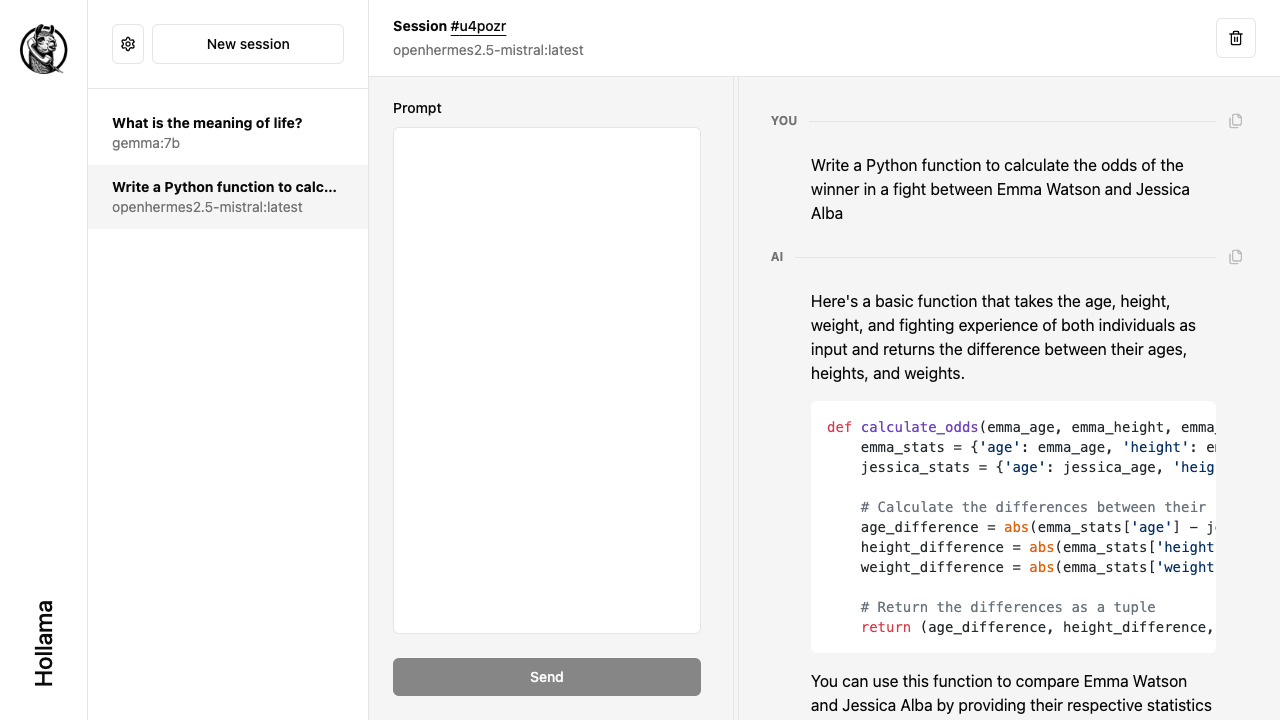
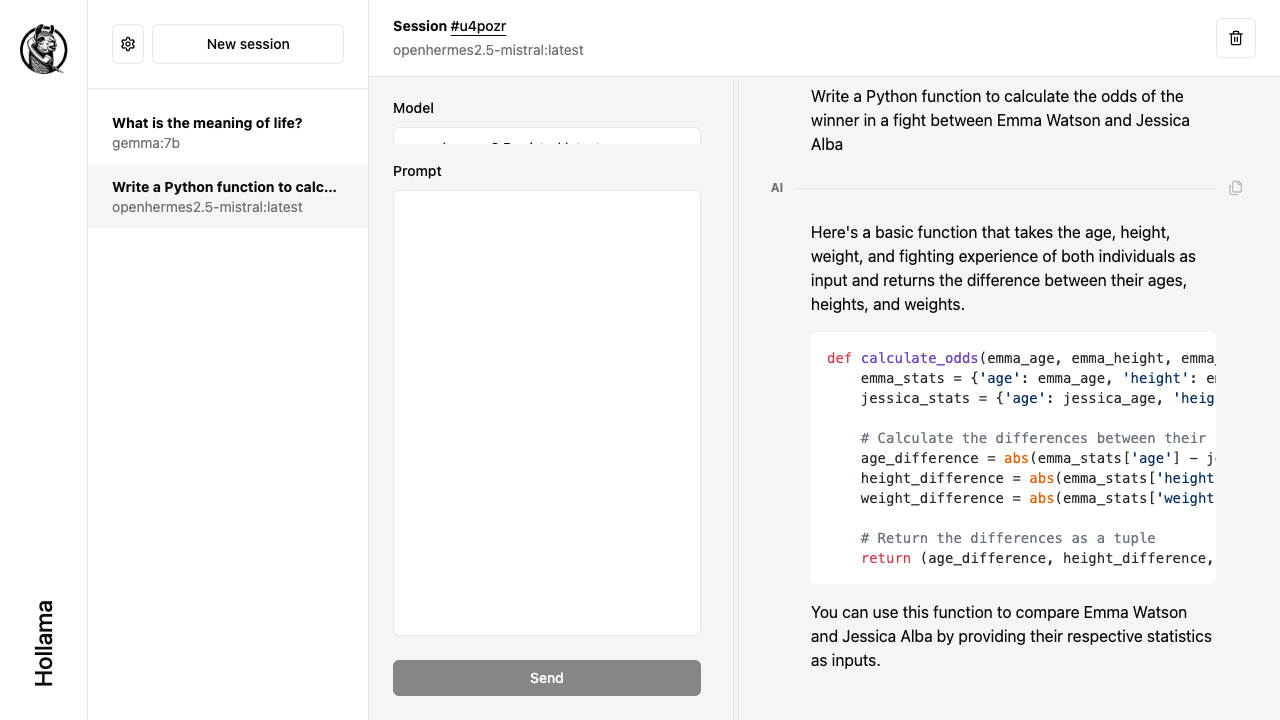
add another screenshot for "new session"

diff --git a/tests/docs.test.ts b/tests/docs.test.ts
@@ -9,6 +9,10 @@ test('seed data and take screenshots for README.md', async ({ page }) => {
 	await page.goto('/');
 	await page.getByLabel('Model').selectOption('openhermes2.5-mistral:latest');
 	await page.screenshot({ path: 'docs/settings.png', fullPage: true });
+	
+	await page.getByText('New session').click();
+	await expect(page.getByText('Write a prompt to start a new session')).toBeVisible();
+	await page.screenshot({ path: 'docs/session-new.png', fullPage: true });
 
 	// Stage 2 sessions
 	await page.evaluate(() => window.localStorage.setItem(

diff --git a/README.md b/README.md
@@ -3,6 +3,7 @@
 A minimal web-UI for talking to [Ollama](https://github.com/jmorganca/ollama/) servers.
 
 > ![session](docs/session.png)
+> ![session-new](docs/session-new.png)
 > ![settings](docs/settings.png)
 
 
